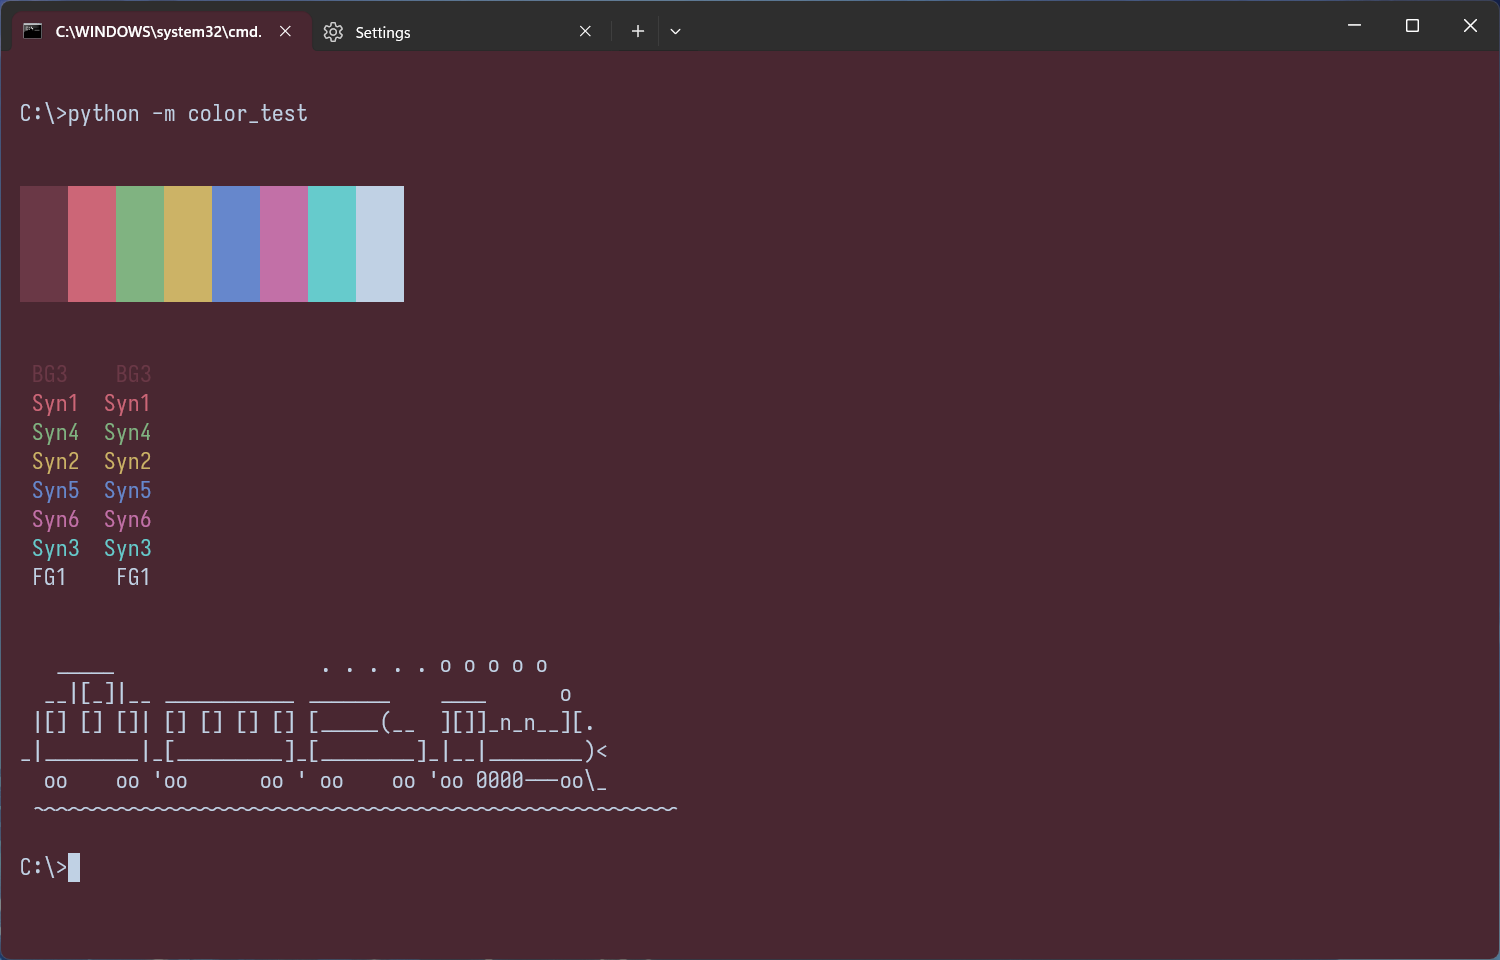
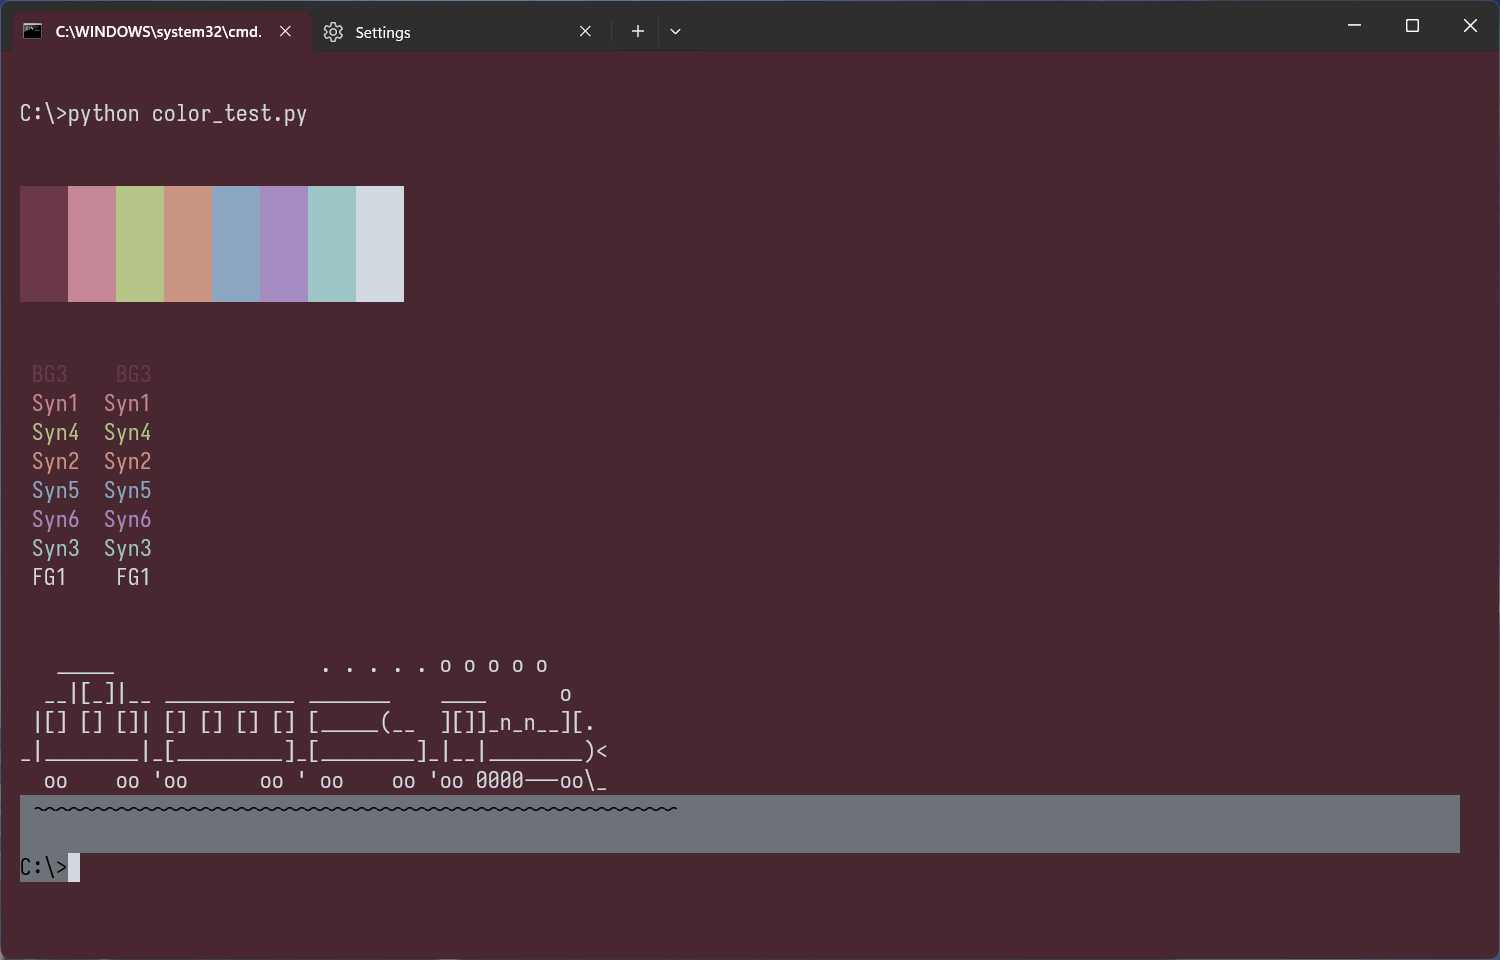
rework admec color scheme

diff --git a/scheme_files/other/adeptus-mechanicus-darker.html b/scheme_files/other/adeptus-mechanicus-darker.html
@@ -42,35 +42,35 @@ this template is meant as a reference sheet for your color theme
 			<tr>
 				<td>Foreground - 1st level<br><a>UI: cursor
                 <br>SYNTAX: default text</a></td>
-				<td>#C9DEE8</td>
-				<td style="background-color:#C9DEE8;"></td>
+				<td>#d1d8e0</td>
+				<td style="background-color:#d1d8e0;"></td>
 			</tr>
 			<tr>
 				<td>Foreground - 2nd level<br><a>UI: 2nd level surfaces fg, inactive tab or file fg</td>
-				<td>#B7C3C9</td>
-				<td style="background-color:#B7C3C9;"></td>
+				<td>#b6bfc9</td>
+				<td style="background-color:#b6bfc9;"></td>
 			</tr>
 			<tr>
 				<td>Foreground - 3rd level<br><a>UI: fold, line numbers<br>SYNTAX: comments</a></td>
-				<td>#99ABB3</td>
-				<td style="background-color:#99ABB3;"></td>
+				<td>#9da5af</td>
+				<td style="background-color:#9da5af;"></td>
 			</tr>
 			<tr>
 				<td>Highlight - 1st level<br><a>UI: alternative marks</a></td>
-				<td>#7B929C</td>
-				<td style="background-color:#7B929C;"></td>
+				<td>#878c92</td>
+				<td style="background-color:#878c92;"></td>
 			</tr>	
 			<tr>
 				<td>Highlight - 2nd level<br><a>UI: selection, search marks, fold marks</a></td>
-				<td>#617882</td>
-				<td style="background-color:#617882;"></td>
+				<td>#6d7278</td>
+				<td style="background-color:#6d7278;"></td>
 			</tr>	
 			<tr>
 				<td>Highlight - 3rd level<br><a>UI: current line</a></td>
-				<td>#4B5D65</td>
-				<td style="background-color:#4B5D65;"></td>
+				<td>#55595e</td>
+				<td style="background-color:#55595e;"></td>
 			</tr>
-		</table>
+        </table>
 		<br>
 		<table>
 			<tr>
@@ -83,35 +83,35 @@ this template is meant as a reference sheet for your color theme
 			<tr>
 				<td>syntax 1<br><a>UI: change history modified, alert, error
                 <br>SYNTAX: macro, methods, functions, symbols (question mark, shebang, etc.)<br>TERMINAL: red</a></td>
-				<td>#BB6087</td>
-				<td style="background-color:#BB6087;"></td>
+				<td>#c58796</td>
+				<td style="background-color:#c58796;"></td> 
 			</tr>
 			<tr>
 				<td>syntax 2<br><a>UI: change history revert origin, change history revert modified, warnings
                 <br>SYNTAX: strings, char, regex, verbatim<br>TERMINAL: yellow</a></td>
-				<td>#BB9A60</td>
-				<td style="background-color:#BB9A60;"></td>
+				<td>#c99482</td>
+				<td style="background-color:#c99482;"></td> 
 			</tr>
 			<tr>
 				<td>syntax 3<br><a>SYNTAX: opertors, variables, identifiers<br>TERMINAL: cyan</a></td>
-				<td>#60BBBA</td>
-				<td style="background-color:#60BBBA;"></td>
+				<td>#9fc6c6</td>
+				<td style="background-color:#9fc6c6;"></td>
 			</tr>
 			<tr>
 				<td>syntax 4<br><a>UI: change history saved
                 <br>SYNTAX: conditionals, keywords, tags, commands, instructions<br>TERMINAL: green</a></td>
-				<td>#85af6a</td>
-				<td style="background-color:#85af6a;"></td>
+				<td>#b5c587</td>
+				<td style="background-color:#b5c587;"></td> 
 			</tr>
 			<tr>
 				<td>syntax 5<br><a>SYNTAX: keys, types, class, groups, sections, preprocessor<br>TERMINAL: blue</a></td>
-				<td>#6068BB</td>
-				<td style="background-color:#6068BB"></td>
+				<td>#8ba6c1</td>
+				<td style="background-color:#8ba6c1;"></td> 
 			</tr>
 			<tr>
 				<td>syntax 6<br><a>SYNTAX: qualifier, numbers, booleans, attributes<br>TERMINAL: magenta (purple)</a></td>
-				<td>#af6aaf</td>
-				<td style="background-color:#af6aaf;"></td>
+				<td>#a68bc1</td>
+				<td style="background-color:#a68bc1;"></td> 	
 			</tr>
 		</table>
 		<br>

diff --git a/scheme_files/other/adeptus-mechanicus-dark.html b/scheme_files/other/adeptus-mechanicus-dark.html
@@ -42,33 +42,33 @@ this template is meant as a reference sheet for your color theme
 			<tr>
 				<td>Foreground - 1st level<br><a>UI: cursor
                 <br>SYNTAX: default text</a></td>
-				<td>#C0D1E4</td>
-				<td style="background-color:#C0D1E4;"></td>
+				<td>#d1d8e0</td>
+				<td style="background-color:#d1d8e0;"></td>
 			</tr>
 			<tr>
 				<td>Foreground - 2nd level<br><a>UI: 2nd level surfaces fg, inactive tab or file fg</td>
-				<td>#9BB7D4</td>
-				<td style="background-color:#9BB7D4;"></td>
+				<td>#b6bfc9</td>
+				<td style="background-color:#b6bfc9;"></td>
 			</tr>
 			<tr>
 				<td>Foreground - 3rd level<br><a>UI: fold, line numbers<br>SYNTAX: comments</a></td>
-				<td>#A9B7C6</td>
-				<td style="background-color:#A9B7C6;"></td>
+				<td>#9da5af</td>
+				<td style="background-color:#9da5af;"></td>
 			</tr>
 			<tr>
 				<td>Highlight - 1st level<br><a>UI: alternative marks</a></td>
-				<td>#8A9EB2</td>
-				<td style="background-color:#8A9EB2;"></td>
+				<td>#878c92</td>
+				<td style="background-color:#878c92;"></td>
 			</tr>	
 			<tr>
 				<td>Highlight - 2nd level<br><a>UI: selection, search marks, fold marks</a></td>
-				<td>#6B849D</td>
-				<td style="background-color:#6B849D;"></td>
+				<td>#6d7278</td>
+				<td style="background-color:#6d7278;"></td>
 			</tr>	
 			<tr>
 				<td>Highlight - 3rd level<br><a>UI: current line</a></td>
-				<td>#556B81</td>
-				<td style="background-color:#556B81;"></td>
+				<td>#55595e</td>
+				<td style="background-color:#55595e;"></td>
 			</tr>
 		</table>
 		<br>
@@ -83,35 +83,35 @@ this template is meant as a reference sheet for your color theme
 			<tr>
 				<td>syntax 1<br><a>UI: change history modified, alert, error
                 <br>SYNTAX: macro, methods, functions, symbols (question mark, shebang, etc.)<br>TERMINAL: red</a></td>
-				<td>#CC6677</td>
-				<td style="background-color:#CC6677;"></td>
+				<td>#c58796</td>
+				<td style="background-color:#c58796;"></td> 
 			</tr>
 			<tr>
 				<td>syntax 2<br><a>UI: change history revert origin, change history revert modified, warnings
                 <br>SYNTAX: strings, char, regex, verbatim<br>TERMINAL: yellow</a></td>
-				<td>#CCB366</td>
-				<td style="background-color:#CCB366;"></td>
+				<td>#c99482</td>
+				<td style="background-color:#c99482;"></td> 
 			</tr>
 			<tr>
 				<td>syntax 3<br><a>SYNTAX: opertors, variables, identifiers<br>TERMINAL: cyan</a></td>
-				<td>#66CBCC</td>
-				<td style="background-color:#66CBCC;"></td>
+				<td>#9fc6c6</td>
+				<td style="background-color:#9fc6c6;"></td>
 			</tr>
 			<tr>
 				<td>syntax 4<br><a>UI: change history saved
                 <br>SYNTAX: conditionals, keywords, tags, commands, instructions<br>TERMINAL: green</a></td>
-				<td>#80b381</td>
-				<td style="background-color:#80b381;"></td>
+				<td>#b5c587</td>
+				<td style="background-color:#b5c587;"></td> 
 			</tr>
 			<tr>
 				<td>syntax 5<br><a>SYNTAX: keys, types, class, groups, sections, preprocessor<br>TERMINAL: blue</a></td>
-				<td>#6687CC</td>
-				<td style="background-color:#6687CC;"></td>
+				<td>#8ba6c1</td>
+				<td style="background-color:#8ba6c1;"></td> 
 			</tr>
 			<tr>
 				<td>syntax 6<br><a>SYNTAX: qualifier, numbers, booleans, attributes<br>TERMINAL: magenta (purple)</a></td>
-				<td>#c270a7</td>
-				<td style="background-color:#c270a7;"></td>
+				<td>#a68bc1</td>
+				<td style="background-color:#a68bc1;"></td> 	
 			</tr>
 		</table>
 		<br>
